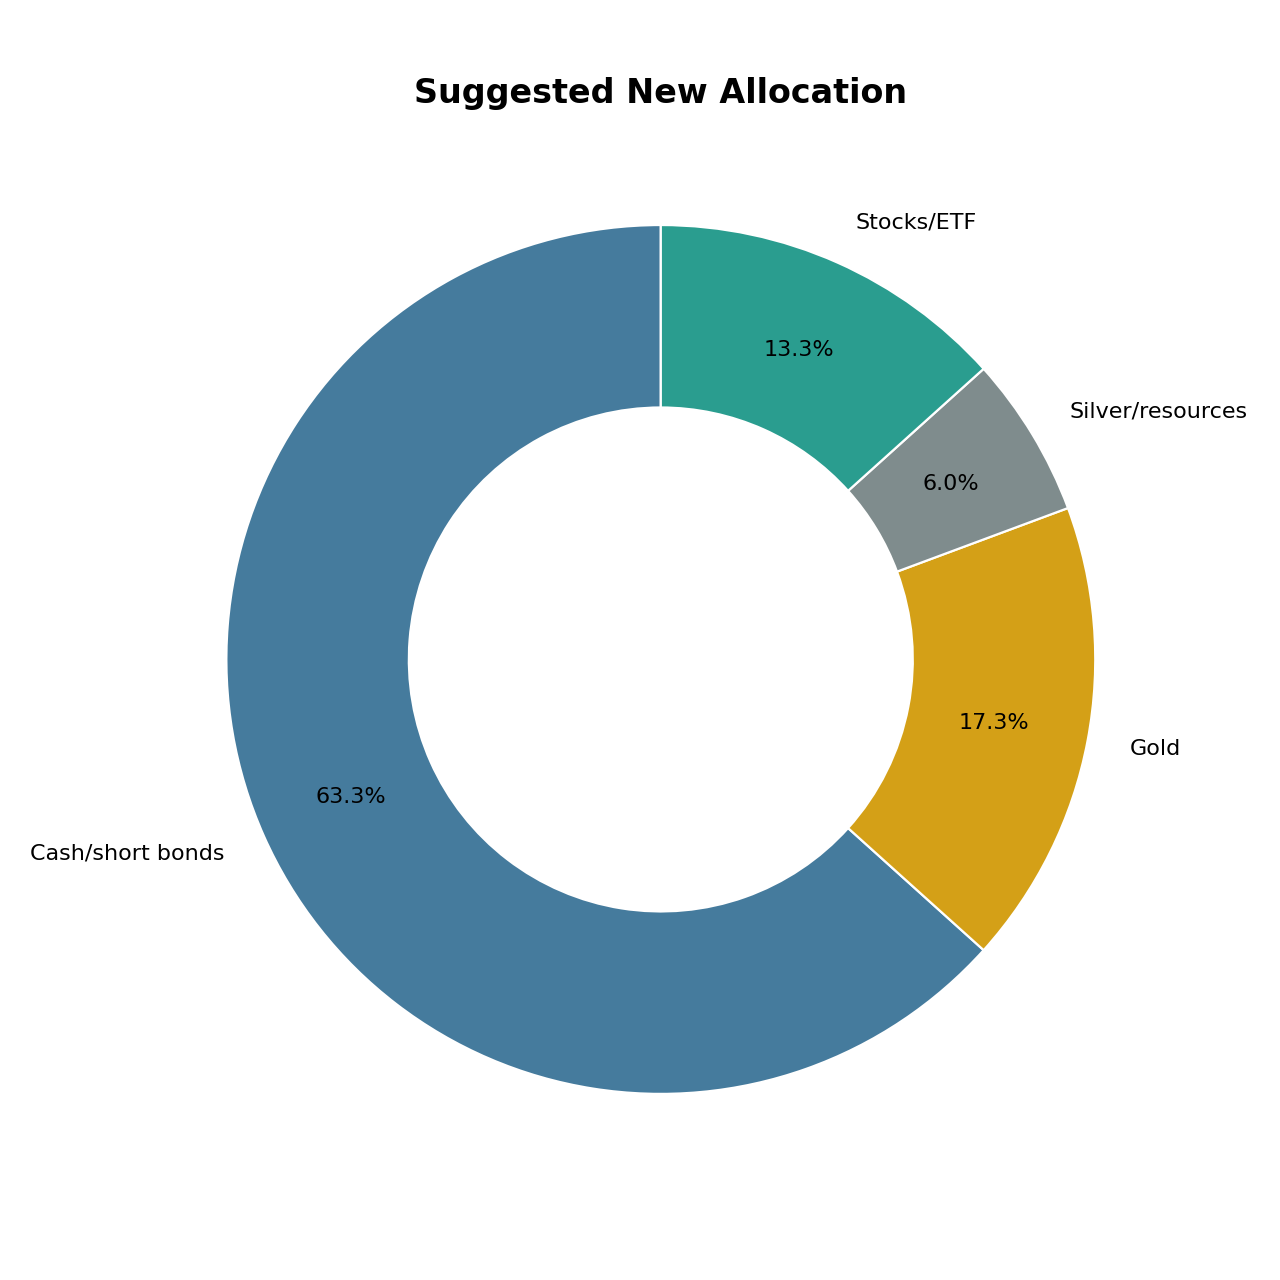
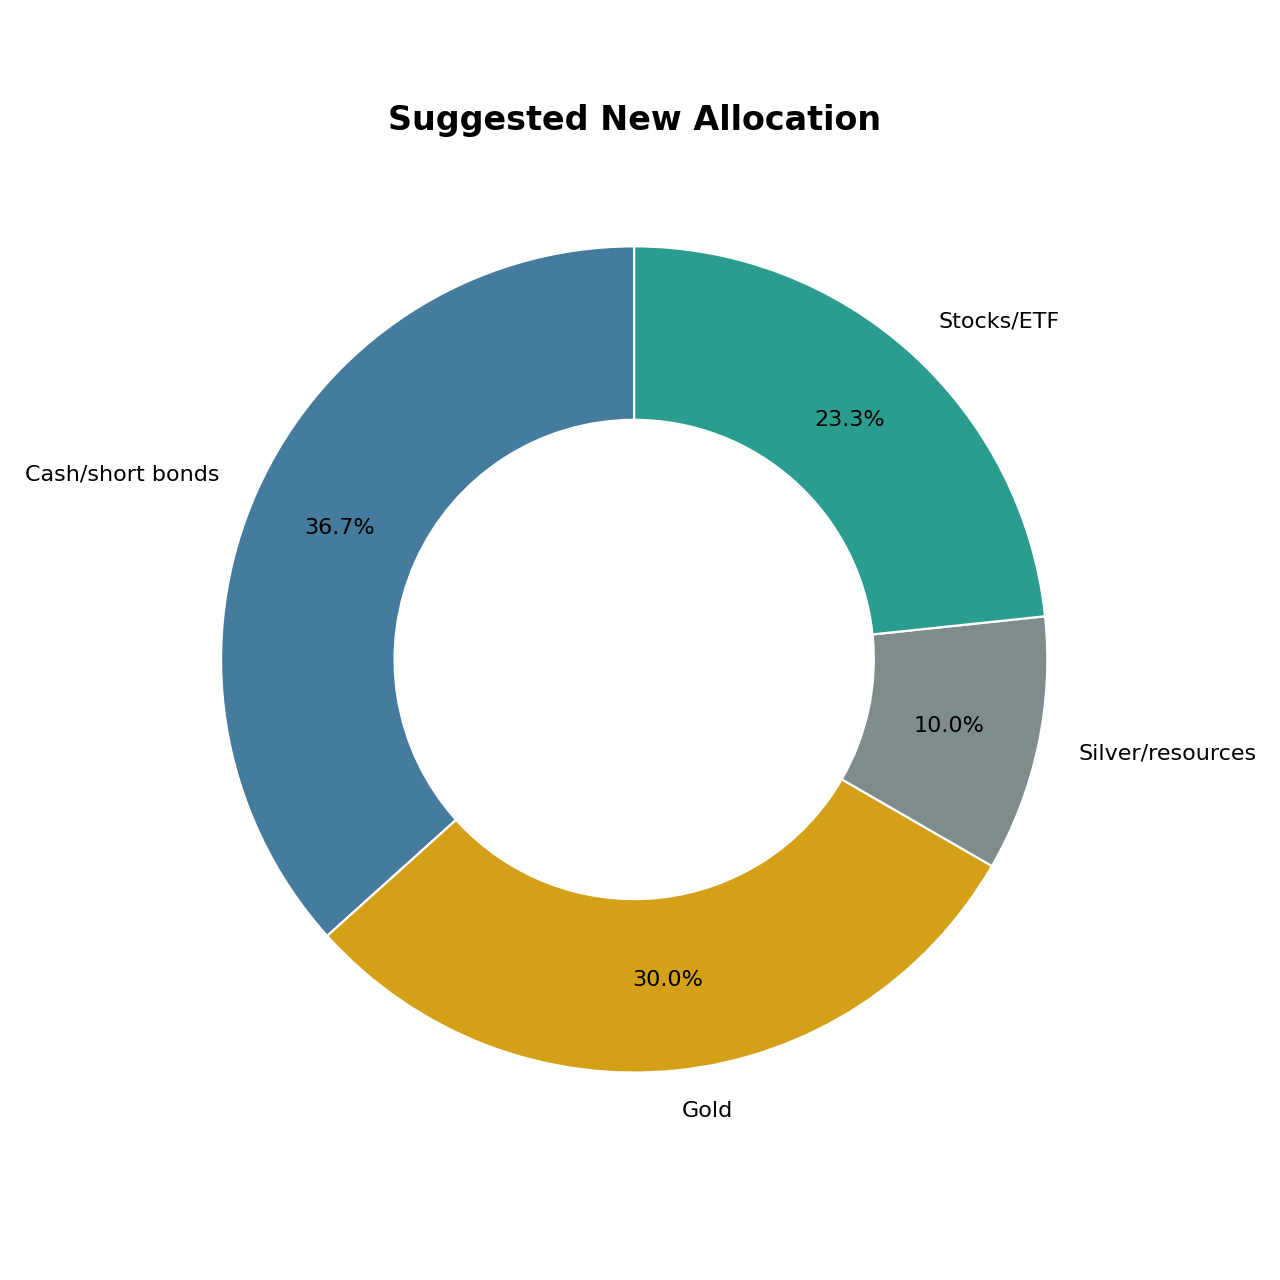
report: update fresh capital allocation

diff --git a/reports/macro_regime_2026-05-27.md b/reports/macro_regime_2026-05-27.md
@@ -64,22 +64,22 @@
 - 시장 방향을 맞히기보다 손실 방어, 헤지, 최소 성장 노출을 동시에 고려
 
 배분 판단:
-- 방어 축: 신규 150만원 중 95만원은 현금성/3개월 이하 단기채로 두어 변동성 방어와 추가 매수 여력을 확보
-- 헤지 축: 인플레·환율 리스크가 높아 금 26만원과 은/원자재 9만원을 방어 헤지로 우선 배치
-- 성장 축: 주식/ETF 20만원은 전면 배제하지 않고 장기 성장 노출만 제한적으로 확보
+- 방어 축: 신규 150만원 중 55만원은 현금성/3개월 이하 단기채로 두어 변동성 방어와 추가 매수 여력을 확보
+- 헤지 축: 인플레·환율 리스크가 높아 금 45만원과 은/원자재 15만원을 방어 헤지로 우선 배치
+- 성장 축: 주식/ETF 35만원은 전면 배제하지 않고 장기 성장 노출만 제한적으로 확보
 
 ## 6. 제안 배분
 신규 투자금 150만원 기준:
 
 | 자산 | 금액 | 비중 | 이유 |
 |---|---:|---:|---|
-| 현금성/3개월 이하 단기채 | 95만원 | 63.3% | 변동성 방어와 폭락 시 매수 여력 보존 |
-| 금 | 26만원 | 17.3% | 인플레, 환율, 정책실수 리스크 헤지 |
-| 은/원자재 | 9만원 | 6.0% | 귀금속과 산업재 성격의 보조 헤지 |
-| 주식/ETF | 20만원 | 13.3% | 장기 성장 엔진과 기회 상실 방지 |
+| 현금성/3개월 이하 단기채 | 55만원 | 36.7% | 변동성 방어와 폭락 시 매수 여력 보존 |
+| 금 | 45만원 | 30.0% | 인플레, 환율, 정책실수 리스크 헤지 |
+| 은/원자재 | 15만원 | 10.0% | 귀금속과 산업재 성격의 보조 헤지 |
+| 주식/ETF | 35만원 | 23.3% | 장기 성장 엔진과 기회 상실 방지 |
 
 ## 7. 실행 액션
-- 이번 달: 신규 150만원을 현금성/단기채 95만원, 금 26만원, 은/원자재 9만원, 주식/ETF 20만원으로 바로 배분.
+- 이번 달: 신규 150만원을 현금성/단기채 55만원, 금 45만원, 은/원자재 15만원, 주식/ETF 35만원으로 바로 배분.
 - 집행 방식: 한 번에 전액 매수하기보다 2~4회로 나누어 진입하면 환율·금리 변동 리스크를 줄일 수 있습니다.
 - 다음 달: CPI/PCE, USD/KRW, WTI, 하이일드 스프레드가 완화되면 신규 투자분의 현금성 비중을 일부 낮추고 주식/ETF 또는 장기 성장 자산을 재검토합니다.
 - 지표 변화 시: Core CPI 재가속, USD/KRW 추가 상승, WTI 급등이면 금/은 헤지를 유지하거나 소폭 확대하고, 신용스프레드 급등이면 주식/ETF 확대를 보류.
@@ -96,7 +96,7 @@
 - 신용스프레드가 낮게 유지되고 고용이 견조해 주식/ETF의 기회비용이 더 커지는 경우
 
 ## 10. 최종 결론
-요약: 현재 지표 조합상 합리적인 선택지는 Inflation Rebound + Dollar/KRW Risk 레짐을 기본으로 보고, 정해진 기존 비중 없이 신규 150만원을 방어성 63.3%, 금/은·원자재 헤지 23.3%, 주식/ETF 13.3%로 나누는 것입니다. 이는 시장 방향을 단정하는 판단이 아니라, 인플레·환율·공급충격 리스크가 완전히 해소되지 않은 상태에서 신규 투자금 150만원을 방어적으로 배분하는 접근입니다.
+요약: 현재 지표 조합상 합리적인 선택지는 Inflation Rebound + Dollar/KRW Risk 레짐을 기본으로 보고, 정해진 기존 비중 없이 신규 150만원을 방어성 36.7%, 금/은·원자재 헤지 40.0%, 주식/ETF 23.3%로 나누는 것입니다. 이는 시장 방향을 단정하는 판단이 아니라, 인플레·환율·공급충격 리스크가 완전히 해소되지 않은 상태에서 신규 투자금 150만원을 방어적으로 배분하는 접근입니다.
 
 작성일: 2026-05-27
 <!-- macro-visual-dashboard:start -->